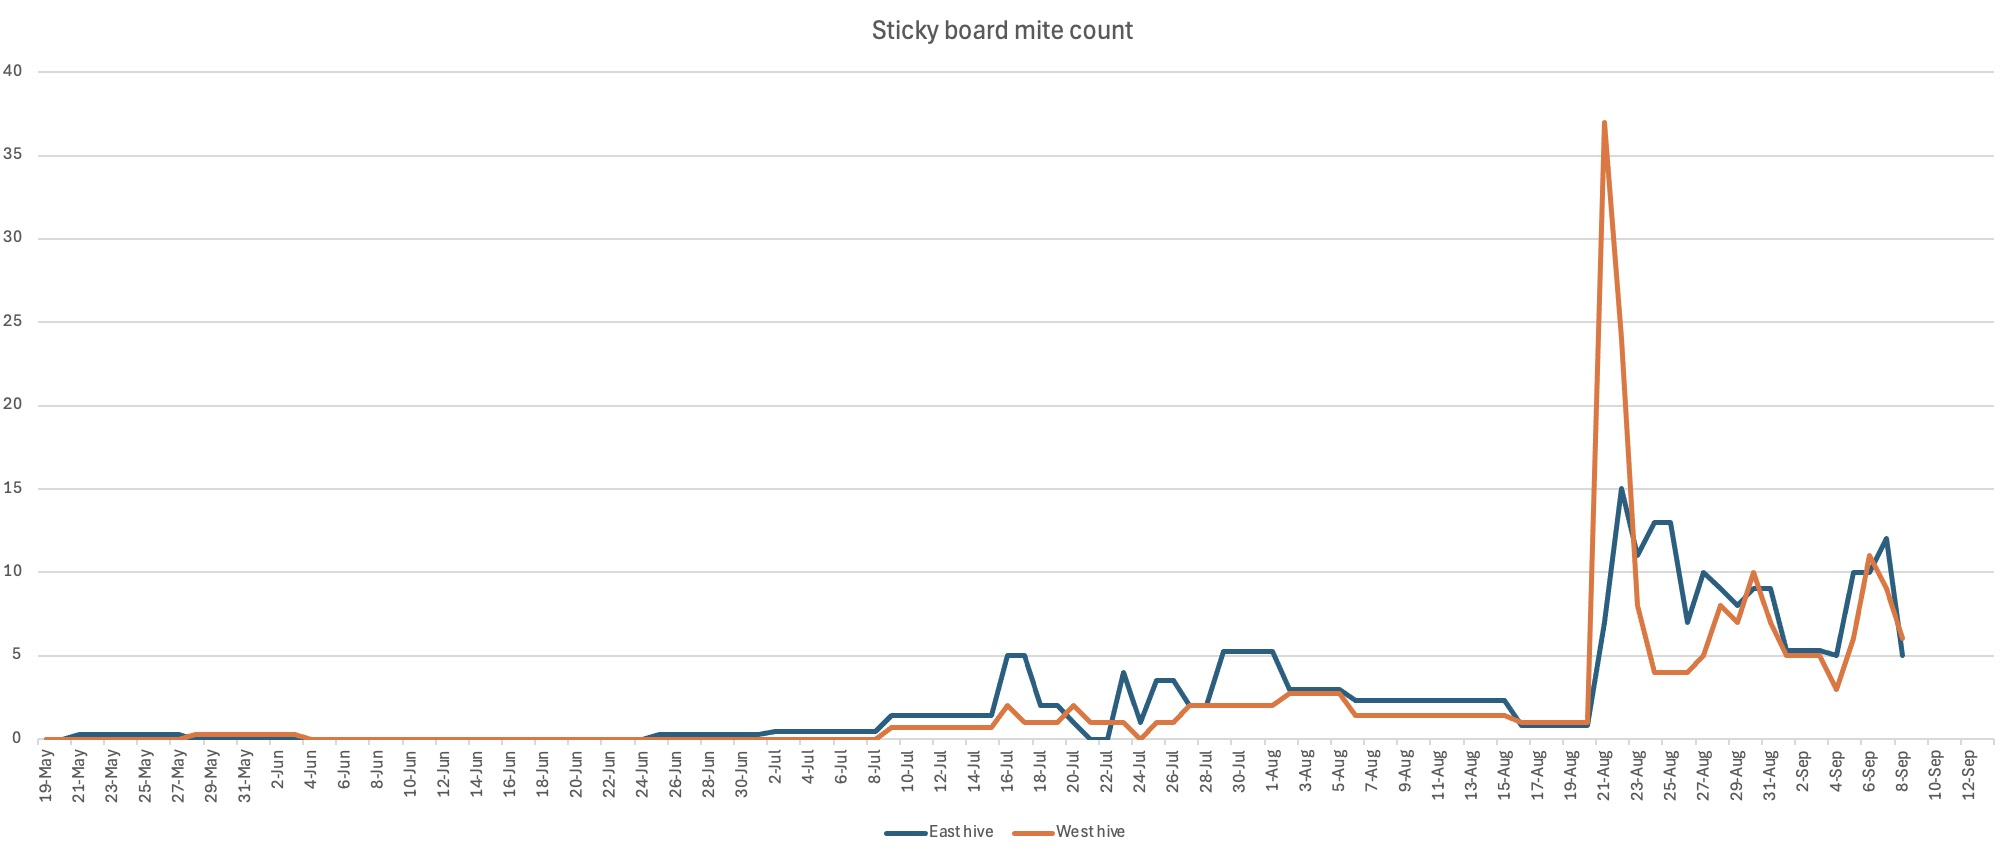
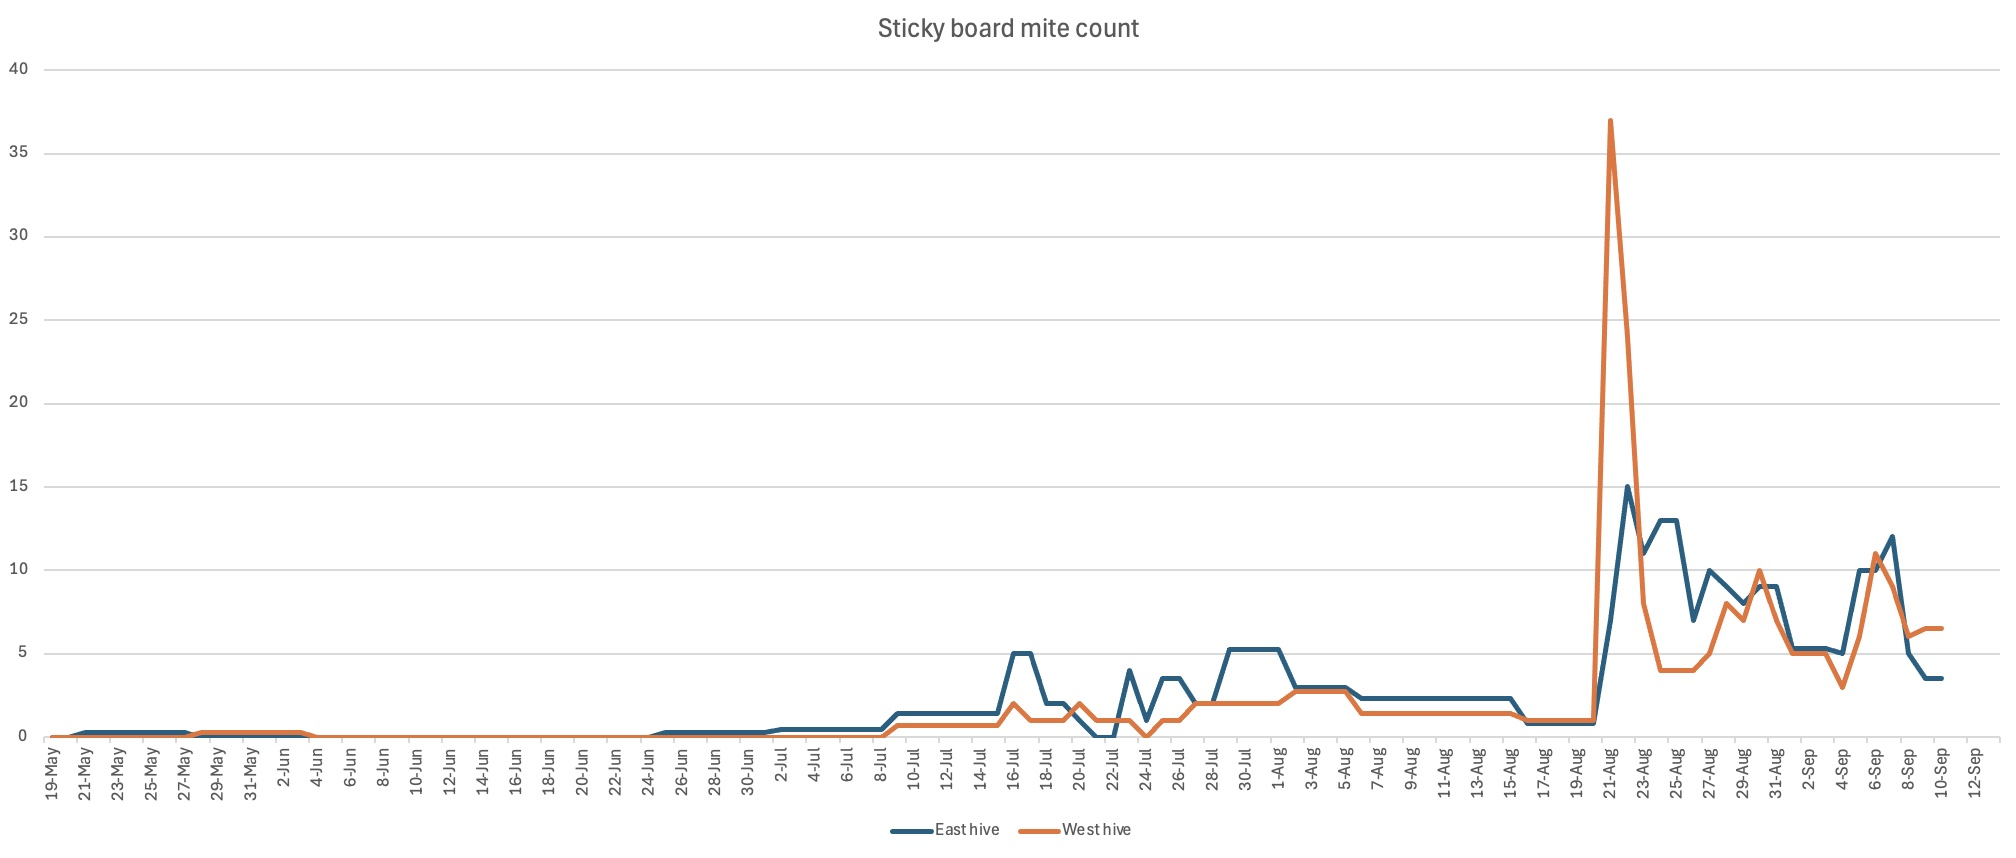
added mite count

diff --git a/_posts/2024-09-10-mite-check.md b/_posts/2024-09-10-mite-check.md
@@ -1,0 +1,18 @@
+---
+title: "Mite Check"
+date: 2024-09-10
+---
+
+- Time: ~08.00
+- Temp: ~55F, cloudy
+
+### East nuc
+
+- Bottom board had 7 mites
+- Wiped and re-oiled the bottom board.
+
+### West nuc
+
+- Bottom board had 13 mites
+- Wiped and re-oiled the bottom board.
+
